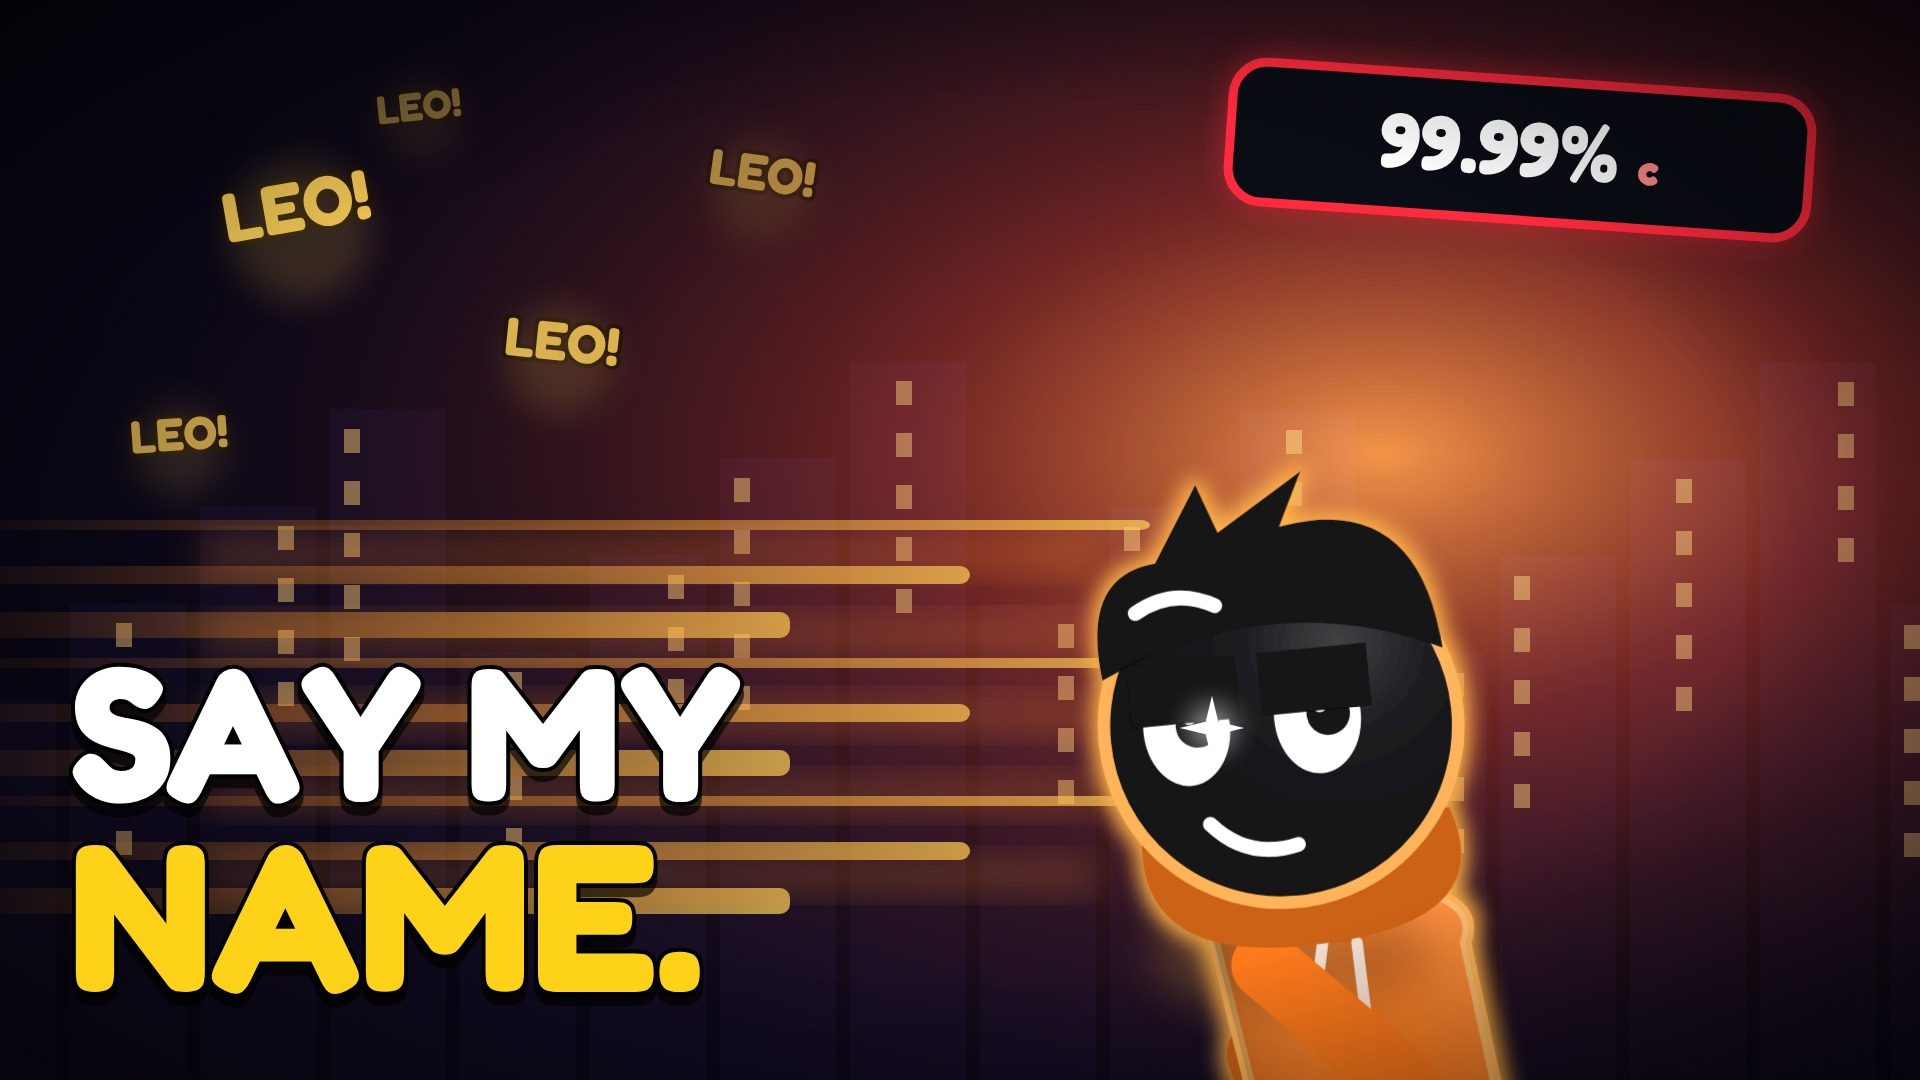
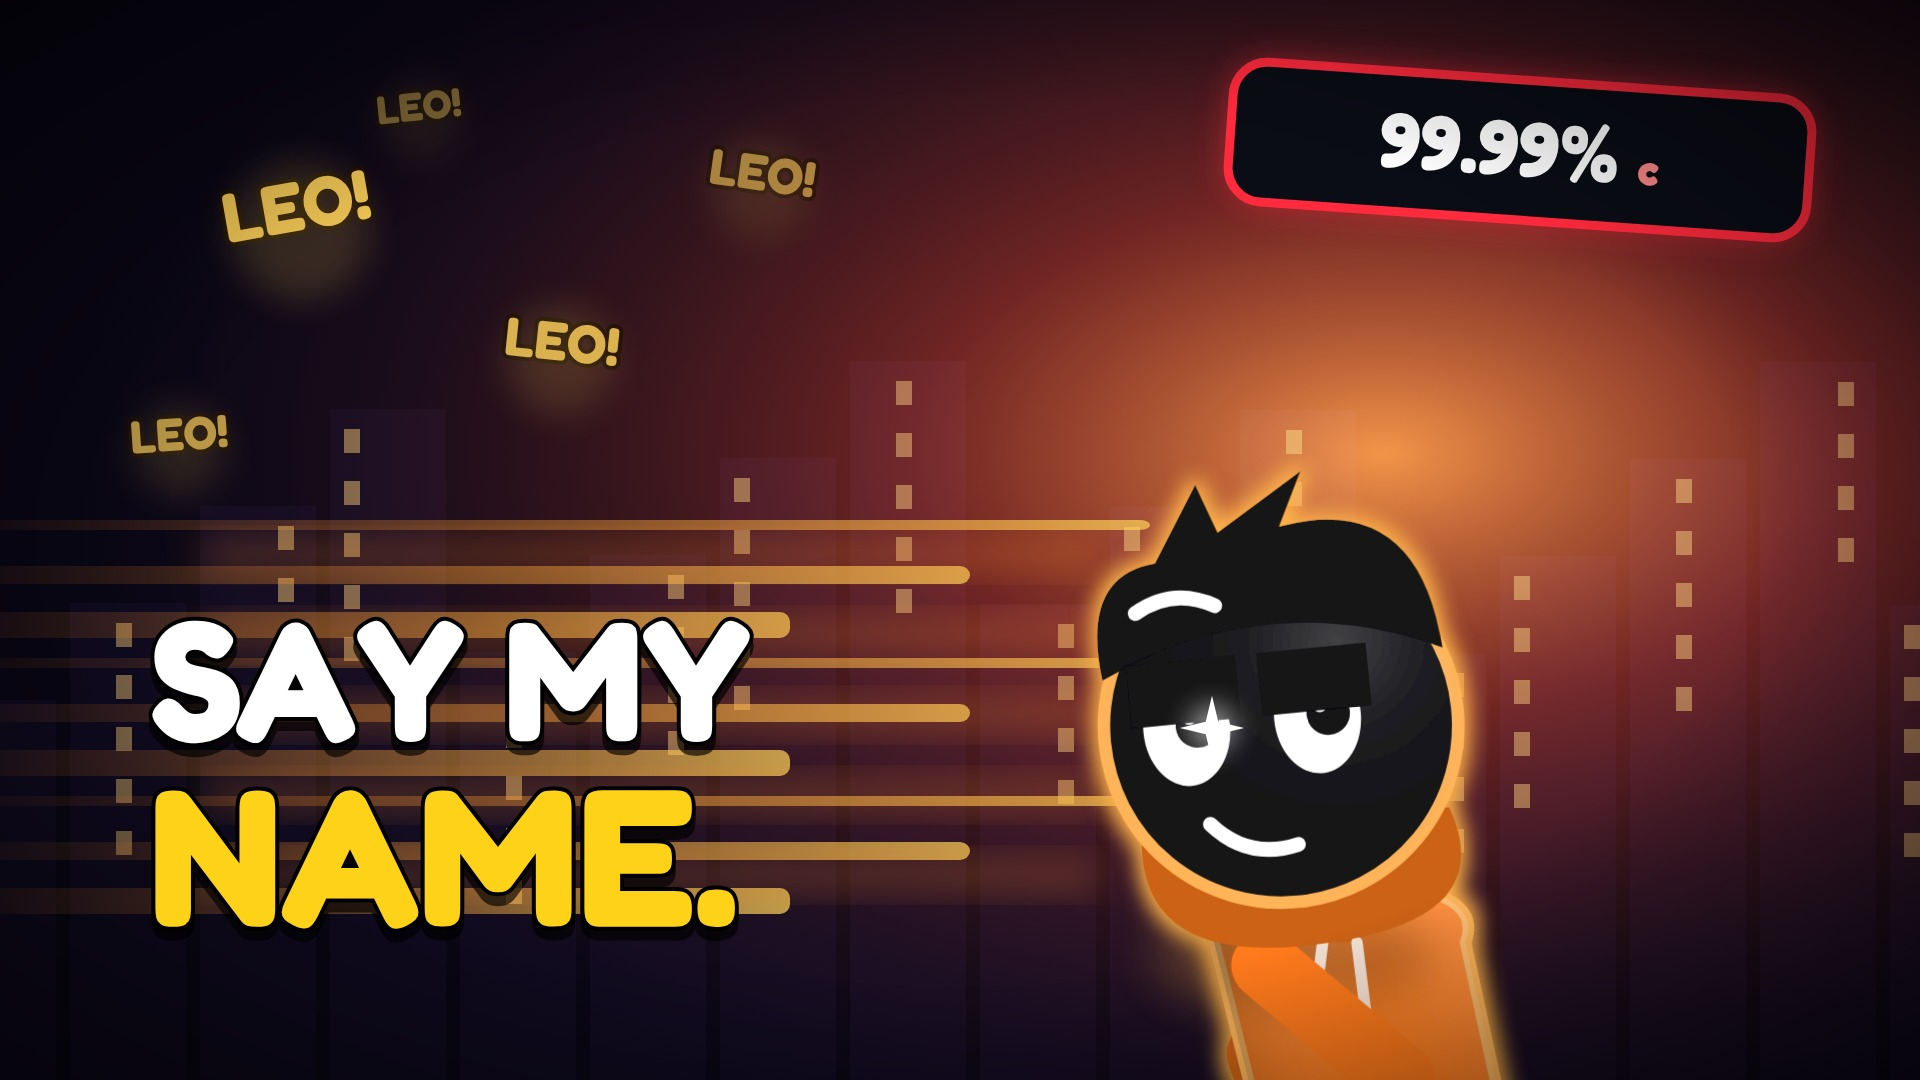
Thumbnails: move headline away from the edge
Claude-Session: https://claude.ai/code/session_011tsuhJvcRqQFnPVy3KoYte

Changed region(s): [[0.0312, 0.55, 0.4062, 0.9472]]

diff --git a/video-studio/EP04/visuals/src/Thumb5.tsx b/video-studio/EP04/visuals/src/Thumb5.tsx
@@ -65,8 +65,8 @@ export const Thumb5: React.FC<{ v?: 'A' | 'B' }> = ({ v = 'A' }) => {
         <rect width={1920} height={1080} fill="url(#vg5)" />
         {/* headline: white + yellow, two lines */}
         <g style={{ filter: 'drop-shadow(0 10px 0 rgba(0,0,0,0.65))' }}>
-          <text x={70} y={v === 'A' ? 800 : 820} fontSize={190} fontWeight={700} fontFamily={FONT_HEAD} fill="#fff" stroke="#000" strokeWidth={8} paintOrder="stroke">{v === 'A' ? 'SAY MY' : 'TOO'}</text>
-          <text x={70} y={v === 'A' ? 990 : 1010} fontSize={210} fontWeight={700} fontFamily={FONT_HEAD} fill="#ffd21a" stroke="#000" strokeWidth={8} paintOrder="stroke">{v === 'A' ? 'NAME.' : 'FAST.'}</text>
+          <text x={150} y={740} fontSize={170} fontWeight={700} fontFamily={FONT_HEAD} fill="#fff" stroke="#000" strokeWidth={8} paintOrder="stroke">{v === 'A' ? 'SAY MY' : 'TOO'}</text>
+          <text x={150} y={925} fontSize={195} fontWeight={700} fontFamily={FONT_HEAD} fill="#ffd21a" stroke="#000" strokeWidth={8} paintOrder="stroke">{v === 'A' ? 'NAME.' : 'FAST.'}</text>
         </g>
       </svg>
     </AbsoluteFill>

diff --git a/video-studio/EP05/visuals/src/Thumb6.tsx b/video-studio/EP05/visuals/src/Thumb6.tsx
@@ -47,8 +47,8 @@ export const Thumb6: React.FC<{ v?: 'A' | 'B' }> = ({ v = 'A' }) => {
         </g>
         <rect width={1920} height={1080} fill="url(#vg6)" />
         <g style={{ filter: 'drop-shadow(0 10px 0 rgba(0,0,0,0.65))' }}>
-          <text x={70} y={800} fontSize={190} fontWeight={700} fontFamily={FONT_HEAD} fill="#fff" stroke="#000" strokeWidth={8} paintOrder="stroke">{v === 'A' ? "DON'T" : '1 BLINK'}</text>
-          <text x={70} y={1000} fontSize={220} fontWeight={700} fontFamily={FONT_HEAD} fill="#ffd21a" stroke="#000" strokeWidth={8} paintOrder="stroke">{v === 'A' ? 'BLINK.' : '= ×10'}</text>
+          <text x={150} y={740} fontSize={170} fontWeight={700} fontFamily={FONT_HEAD} fill="#fff" stroke="#000" strokeWidth={8} paintOrder="stroke">{v === 'A' ? "DON'T" : '1 BLINK'}</text>
+          <text x={150} y={930} fontSize={200} fontWeight={700} fontFamily={FONT_HEAD} fill="#ffd21a" stroke="#000" strokeWidth={8} paintOrder="stroke">{v === 'A' ? 'BLINK.' : '= ×10'}</text>
         </g>
       </svg>
     </AbsoluteFill>
